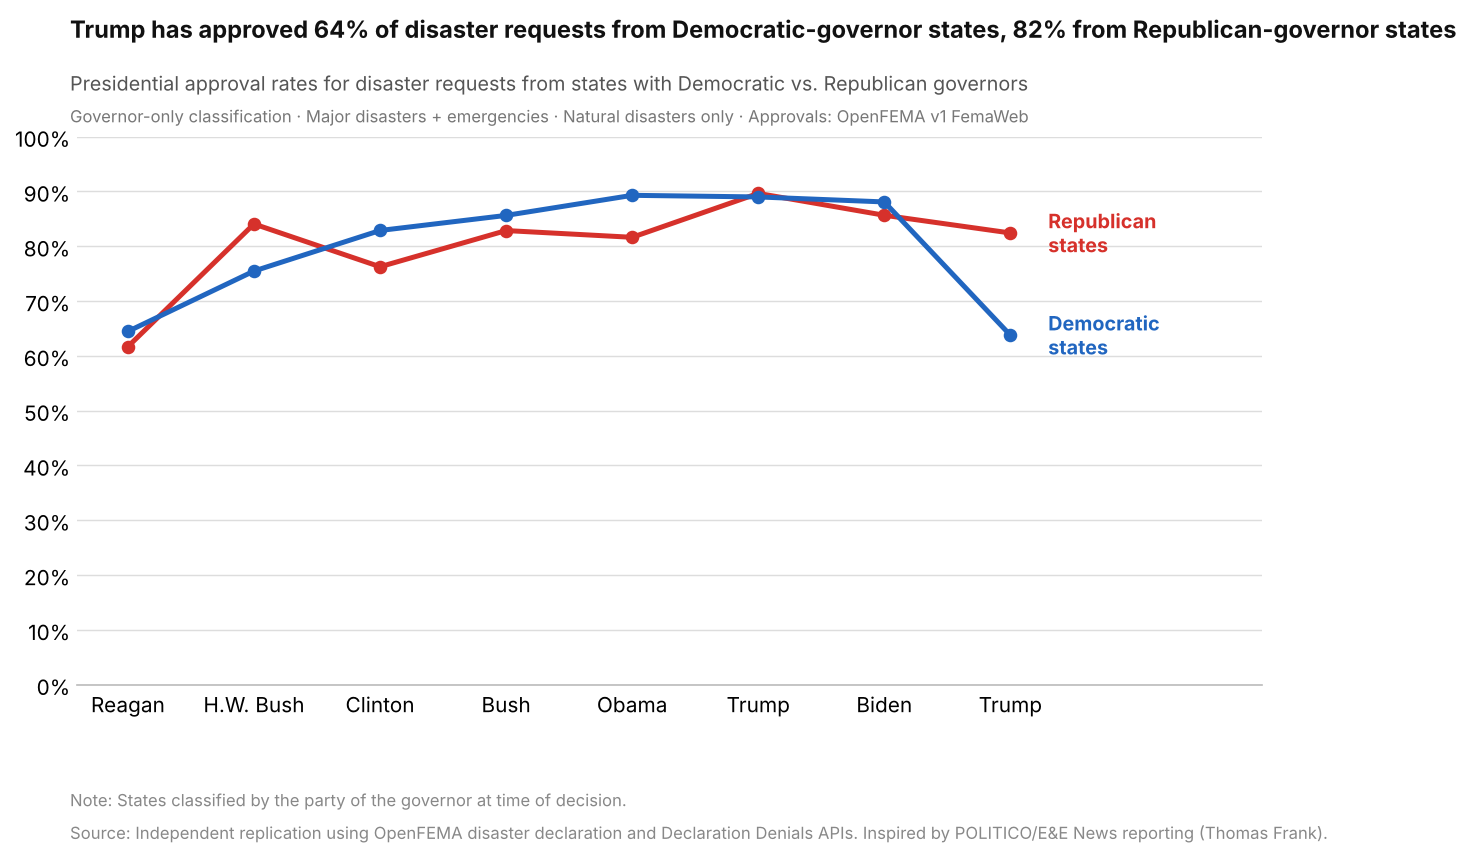
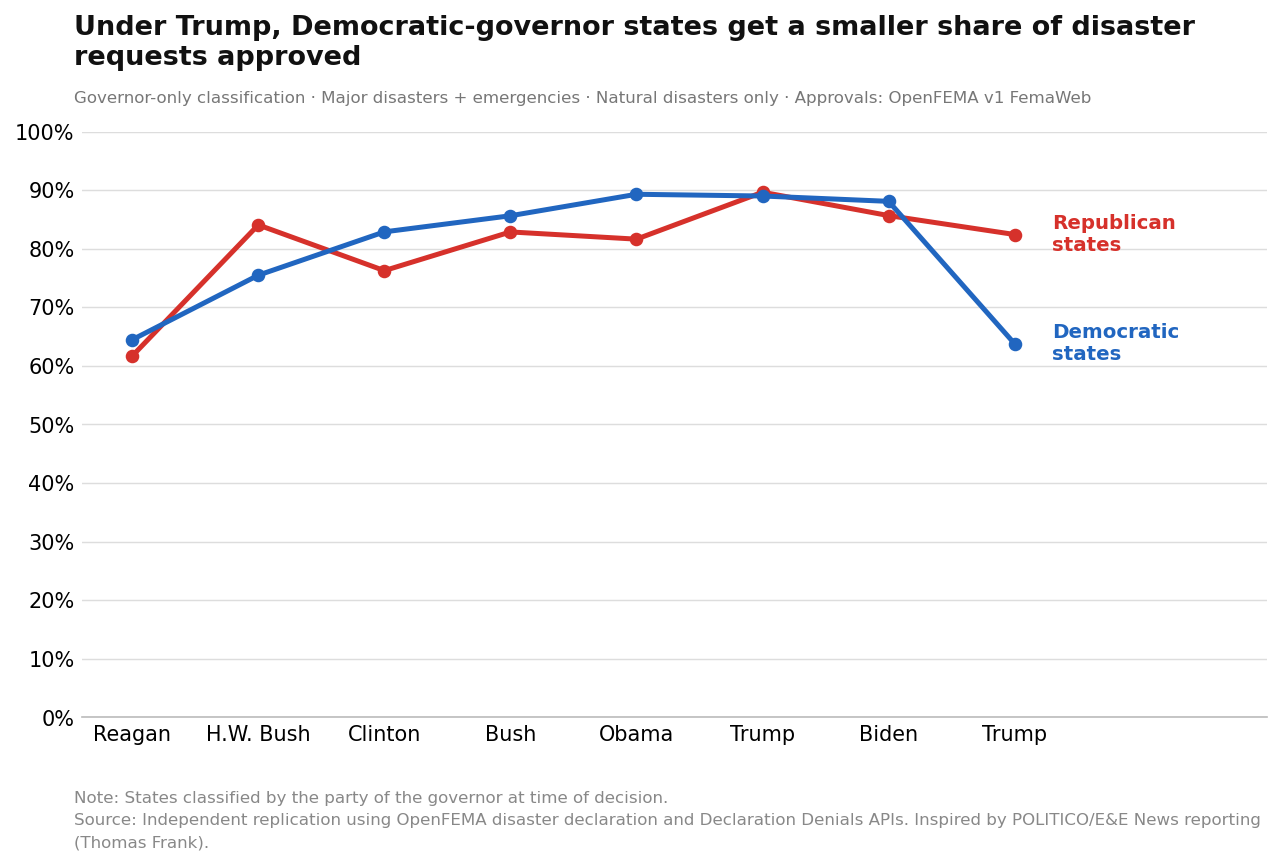
Simplify line-chart titles and keep text within the plot width
- Drop the "Presidential approval rates for..." subheading; the config
  line moves up in its place.
- Headline states the direction of the gap without percentages
  ("Under Trump, Democratic-led states get a smaller share of disaster
  requests approved").
- Headline, config line and footer wrap to the plot's width so they no
  longer widen the saved image; the axes are positioned from the measured
  text blocks.
- Regenerate all 24 line-chart permutations plus the pending chart.

diff --git a/replicate_fema_analysis.py b/replicate_fema_analysis.py
@@ -1106,8 +1106,9 @@ def headline(d_rate, r_rate, president, governor_only=False, two_thirds=False):
     if abs(d_rate - r_rate) < 5:
         return (f"{president} has approved disaster requests from {dem} and "
                 f"{rep} states at similar rates")
-    return (f"{president} has approved {d_rate:.0f}% of disaster requests from "
-            f"{dem} states, {r_rate:.0f}% from {rep} states")
+    lower = dem if d_rate < r_rate else rep
+    return (f"Under {president}, {lower} states get a smaller share of "
+            f"disaster requests approved")
 
 
 def config_line(governor_only=False, two_thirds=False, all_types=False,
@@ -1244,21 +1245,6 @@ def plot_chart(counts, output_path="fema_approval_rates.png",
     ax.spines["bottom"].set_color("#bbbbbb")
 
     # ── Title block (placed above axes in figure coordinates) ──────────────
-    if governor_only:
-        subtitle = (
-            "Presidential approval rates for disaster requests from states with "
-            "Democratic vs. Republican governors"
-        )
-    elif two_thirds:
-        subtitle = (
-            "Presidential approval rates for disaster requests from states where "
-            "2 of 3 offices (governor + senators) belong to the same party"
-        )
-    else:
-        subtitle = (
-            "Presidential approval rates for disaster requests from Democratic-led "
-            "states and Republican-led states"
-        )
     main_title = headline(d_rates[-1], r_rates[-1], valid_labels[-1],
                           governor_only=governor_only, two_thirds=two_thirds)
     config = config_line(governor_only=governor_only, two_thirds=two_thirds,
@@ -1268,30 +1254,43 @@ def plot_chart(counts, output_path="fema_approval_rates.png",
         n = pending_meta["total_added"]
         config += (f" · Hollow marker: +{n} request{'s' if n > 1 else ''} pending "
                    f">{pending_meta['threshold_days']}d counted as denied")
+    # Text blocks wrap to the plot's width so they never widen the saved image
+    # (savefig uses bbox_inches="tight", which grows to fit any overhang).
+    TEXT_LEFT, AXES_RIGHT = 0.065, 0.86
+    renderer = fig.canvas.get_renderer()
+
+    def _wrap(artist):
+        max_px = (AXES_RIGHT - TEXT_LEFT) * fig.bbox.width
+        out = []
+        for para in artist.get_text().split("\n"):
+            line = ""
+            for word in para.split():
+                trial = f"{line} {word}".strip()
+                artist.set_text(trial)
+                if line and artist.get_window_extent(renderer).width > max_px:
+                    out.append(line)
+                    line = word
+                else:
+                    line = trial
+            out.append(line)
+        artist.set_text("\n".join(out))
+
+    def _extent(artist):
+        bb = artist.get_window_extent(renderer)
+        return bb.y0 / fig.bbox.height, bb.y1 / fig.bbox.height
+
     title = fig.text(
-        0.065, 0.97,
+        TEXT_LEFT, 0.97,
         main_title,
         fontsize=13, fontweight="bold", va="top", ha="left", color="#111111",
     )
-    # Data-dependent titles vary in length; shrink to fit the figure width.
-    fig.canvas.draw()
-    width = title.get_window_extent().width / fig.bbox.width
-    if width > 0.925:
-        title.set_fontsize(13 * 0.925 / width)
-    fig.text(
-        0.065, 0.905,
-        subtitle,
-        fontsize=9.5, va="top", ha="left", color="#555555",
-    )
+    _wrap(title)
     config_text = fig.text(
-        0.065, 0.865,
+        TEXT_LEFT, _extent(title)[0] - 0.02,
         config,
         fontsize=8, va="top", ha="left", color="#777777",
     )
-    fig.canvas.draw()
-    width = config_text.get_window_extent().width / fig.bbox.width
-    if width > 0.925:
-        config_text.set_fontsize(8 * 0.925 / width)
+    _wrap(config_text)
 
     # ── Footer ─────────────────────────────────────────────────────────────
     if governor_only:
@@ -1314,11 +1313,18 @@ def plot_chart(counts, output_path="fema_approval_rates.png",
         "and Declaration Denials APIs. "
         "Inspired by POLITICO/E&E News reporting (Thomas Frank)."
     )
-    fig.text(0.065, 0.01, footer,
-             fontsize=8, va="bottom", ha="left", color="#888888",
-             linespacing=1.6)
+    footer_text = fig.text(TEXT_LEFT, 0.01, footer,
+                           fontsize=8, va="bottom", ha="left", color="#888888",
+                           linespacing=1.6)
+    _wrap(footer_text)
 
-    plt.subplots_adjust(left=0.07, right=0.86, top=0.83, bottom=0.20)
+    # Fit the axes between the title block and the footer, leaving room for
+    # the x tick labels below the axes.
+    tick_h = max(t.get_window_extent(renderer).height
+                 for t in ax.get_xticklabels()) / fig.bbox.height
+    plt.subplots_adjust(left=0.07, right=AXES_RIGHT,
+                        top=_extent(config_text)[0] - 0.03,
+                        bottom=_extent(footer_text)[1] + tick_h + 0.06)
     plt.savefig(output_path, dpi=150, bbox_inches="tight", facecolor="white")
     print(f"Chart saved to: {output_path}")
     plt.close()
